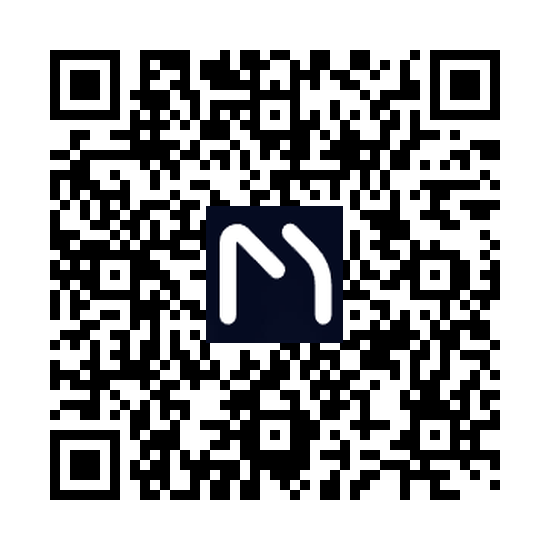
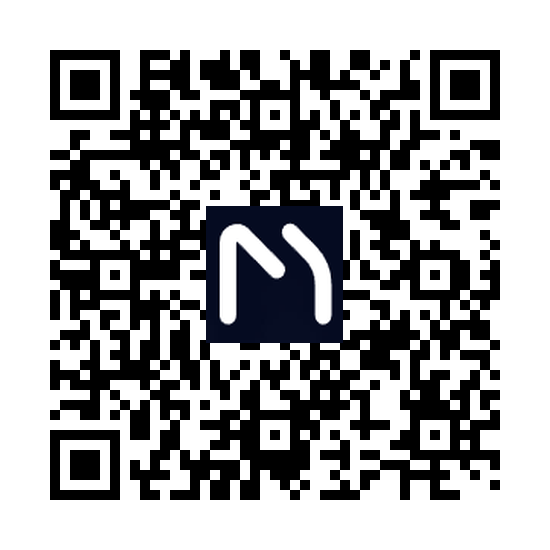
feat: updated protocol

diff --git a/scripts/court_qrcode_generator.py b/scripts/court_qrcode_generator.py
@@ -4,7 +4,7 @@ from PIL import Image
 
 
 def generate_qrcode(args: str):
-    join_court_request = f"https://MEM4PRO/ID_PLACEHOLDER/join_court/{args.padel_company_id}/{args.padel_court_id}"
+    join_court_request = f"h4pro://MEM4PRO/ID_PLACEHOLDER/join_court/{args.padel_company_id}/{args.padel_court_id}"
     qr = qrcode.QRCode(version=1, box_size=10, border=5, error_correction=qrcode.constants.ERROR_CORRECT_H)
     qr.add_data(join_court_request)
     qr.make(fit=True)
